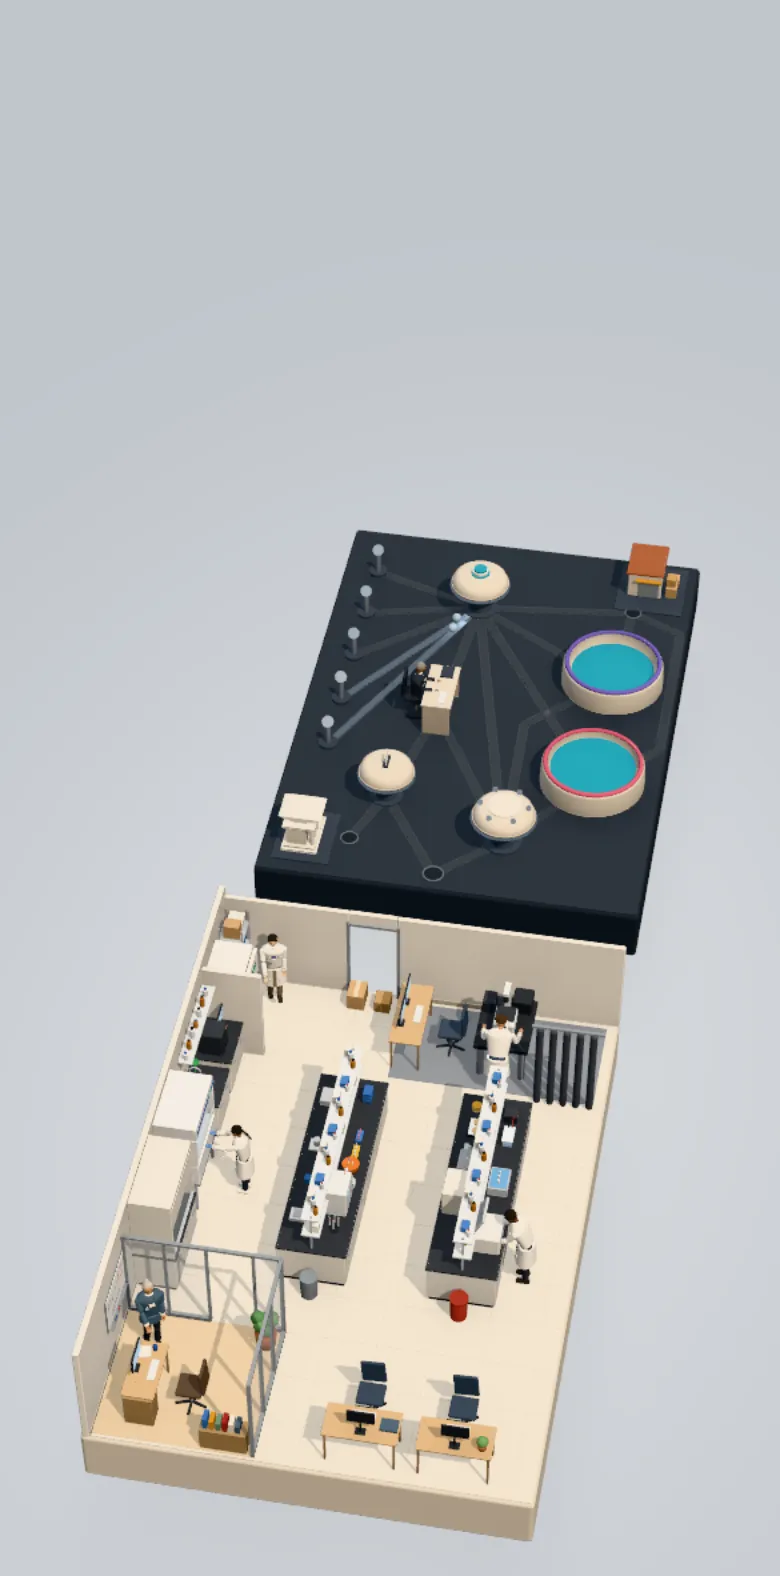
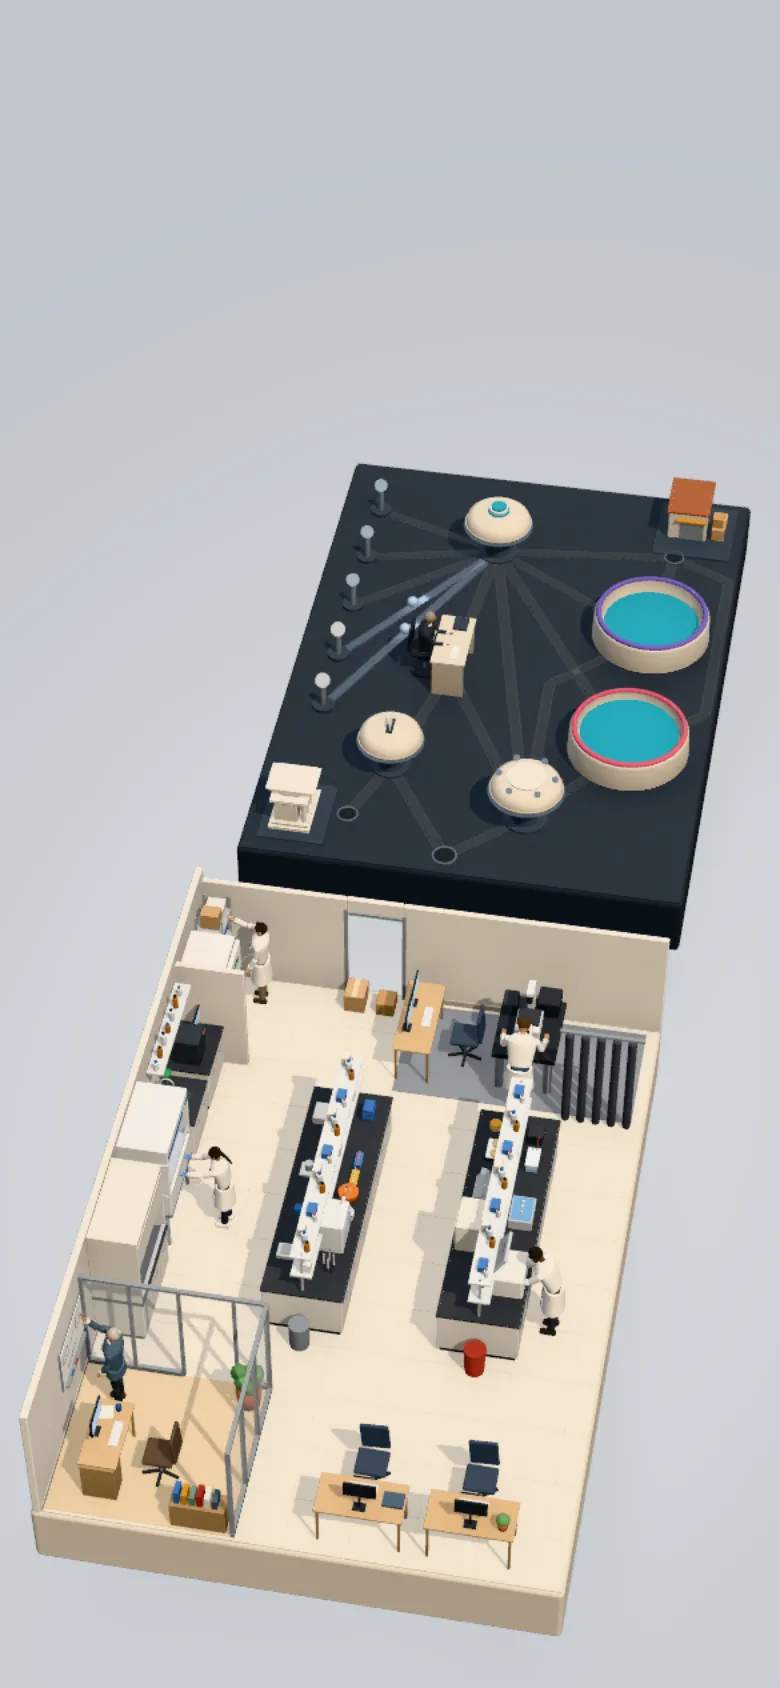
feat(hero): GrantGuard over the scene in compact type; the scene sits full-bleed on the stage's bottom edge
The name, one product line, one small line on the replay and an italic prompt
with the two ways in sit in the sky. The fit reports how much of the view the
scene spans, so the embedded picture rests on the bottom edge under the copy.
Stills regenerated at the bar-less stage size.

diff --git a/hero/src/demos/a1/demo-a1.css b/hero/src/demos/a1/demo-a1.css
@@ -1444,7 +1444,7 @@
 }
 .demo-a1 .a-embed-copy {
   position: absolute;
-  top: clamp(22px, 4.5vh, 52px);
+  top: clamp(20px, 4vh, 44px);
   right: 5%;
   left: 5%;
   z-index: 4;
@@ -1454,37 +1454,39 @@
 .demo-a1 .a-embed-copy > * {
   pointer-events: auto;
 }
-.demo-a1 .a-embed-head {
-  flex: none;
-}
 .demo-a1 .a-embed-head h1 {
   font-family: var(--display);
-  font-stretch: 110%;
-  font-weight: 660;
-  font-size: clamp(32px, min(4.1vw, 6.4vh), 64px);
-  line-height: 1.02;
+  font-stretch: 112%;
+  font-weight: 720;
+  font-size: clamp(36px, 4.5vw, 64px);
+  line-height: 1;
   letter-spacing: -0.035em;
   color: var(--ink);
+}
+.demo-a1 .a-embed-sub {
+  margin-top: 10px;
+  font-size: clamp(17px, 1.3vw, 19px);
+  font-weight: 500;
+  line-height: 1.4;
+  color: var(--ink-2);
   text-wrap: balance;
 }
 .demo-a1 .a-embed-head .a-lede {
-  max-width: 64ch;
-  margin: 14px auto 0;
-  font-size: clamp(15px, 1.15vw, 17px);
-  line-height: 1.5;
+  margin-top: 4px;
+  font-size: 13.5px;
+  line-height: 1.45;
+  color: var(--ink-3);
+}
+/* The prompt: an italic sentence with the two ways in standing upright in it. */
+.demo-a1 .a-embed-prompt {
+  margin-top: 16px;
+  font-size: clamp(18px, 1.4vw, 20px);
+  font-style: italic;
+  line-height: 1.6;
+  color: var(--ink);
   text-wrap: balance;
 }
-.demo-a1 .a-embed-prompt {
-  margin-top: 18px;
-  font-family: var(--display);
-  font-size: clamp(22px, 2.1vw, 30px);
-  font-weight: 600;
-  line-height: 1.6;
-  letter-spacing: -0.01em;
-  color: var(--ink);
-  text-wrap: pretty;
-}
-/* "Hover over and select" for a mouse, "Tap" for a finger. */
+/* "Hover over … then click" for a mouse, "Tap" for a finger. */
 .demo-a1 .a-verb-touch {
   display: none;
 }
@@ -1496,17 +1498,20 @@
     display: inline;
   }
 }
-/* The two phrases are buttons dressed as emphasis: ink pills that turn cobalt
-   while their side of the scene is lit, from here or from the scene. */
+/* The two phrases are buttons dressed as emphasis: compact ink pills that turn
+   cobalt while their side of the scene is lit, from here or from the scene. */
 .demo-a1 .a-embed-way {
   display: inline-block;
-  padding: 1px 11px 4px;
+  padding: 1px 8px 2px;
   border: 0;
-  border-radius: 8px;
+  border-radius: 6px;
   background: var(--ink);
   color: var(--on-slate);
   font: inherit;
-  line-height: 1.3;
+  font-size: 0.9em;
+  font-style: normal;
+  font-weight: 600;
+  line-height: 1.4;
   white-space: nowrap;
   cursor: pointer;
   transition: background-color 150ms ease-out;
@@ -1533,23 +1538,20 @@
 
 @media (max-width: 759px) {
   .demo-a1 .a-embed-copy {
-    top: 16px;
+    top: 18px;
     right: 16px;
     left: 16px;
   }
-  .demo-a1 .a-embed-head h1 {
-    font-size: 24px;
-    line-height: 1.08;
-    letter-spacing: -0.025em;
+  .demo-a1 .a-embed-sub {
+    margin-top: 8px;
+    font-size: 15px;
   }
   .demo-a1 .a-embed-head .a-lede {
-    margin-top: 8px;
-    font-size: 13.5px;
-    line-height: 1.45;
+    font-size: 12.5px;
   }
   .demo-a1 .a-embed-prompt {
     margin-top: 12px;
-    font-size: 20px;
+    font-size: 16px;
     line-height: 1.55;
   }
 }

diff --git a/hero/src/demos/a1/Hud.tsx b/hero/src/demos/a1/Hud.tsx
@@ -262,8 +262,8 @@ export function Hud({ root }: { root: RefObject<HTMLDivElement | null> }) {
 
 /**
  * Inside another page (embed.ts) the dashboard steps aside and the scene takes
- * the whole box: the headline, one line and a prompt run across its top
- * (Scene.tsx fits the scene under them). The way in is the scene itself;
+ * the whole box: the name, one line on the product, one on the replay and a
+ * prompt sit in the sky over it (Scene.tsx fits the scene under them). The way in is the scene itself;
  * the prompt's two phrases are the same two ways in for keys, screen readers
  * and anyone who would rather not aim, and they light their side of the scene.
  */
@@ -271,12 +271,15 @@ export function EmbedHud({ root }: { root: RefObject<HTMLDivElement | null> }) {
   return (
     <div className="a-embed-copy" data-float="embed-copy">
       <header className="a-embed-head">
-        <h1>An AI grant office that keeps a lab’s spending inside its grants’ rules.</h1>
-        <p className="a-lede">A simulated lab, replaying a scripted story; the spending rules are the real ones. Three AI agents check every request, and the grant manager decides the exceptions.</p>
+        <h1>GrantGuard</h1>
+        <p className="a-embed-sub">An AI grant office that keeps a lab’s spending inside its grants’ rules.</p>
+        <p className="a-lede">A simulated lab replaying a scripted story; the spending rules are the real ones.</p>
         <p className="a-embed-prompt">
-          <span className="a-verb-mouse">Hover over and select</span>
+          <span className="a-verb-mouse">Hover over</span>
           <span className="a-verb-touch">Tap</span> the <Way id="lab" label="Research lab: open the research portal">research lab</Way> or the{' '}
-          <Way id="net" label="Grant manager network: open the grant manager portal">grant manager network</Way>.
+          <Way id="net" label="Grant manager network: open the grant manager portal">grant manager network</Way>
+          <span className="a-verb-mouse">, then click to enter</span>
+          <span className="a-verb-touch"> to enter</span>.
         </p>
       </header>
       <RootSync root={root} phone={false} />

diff --git a/hero/src/embed.tsx b/hero/src/embed.tsx
@@ -69,10 +69,11 @@ function Still({ go }: { go: (role?: Role) => void }) {
         </div>
         <div className="a-embed-copy">
           <header className="a-embed-head">
-            <h1>An AI grant office that keeps a lab’s spending inside its grants’ rules.</h1>
-            <p className="a-lede">A still of the simulated lab. Three AI agents check every request against the real spending rules, and the grant manager decides the exceptions.</p>
+            <h1>GrantGuard</h1>
+            <p className="a-embed-sub">An AI grant office that keeps a lab’s spending inside its grants’ rules.</p>
+            <p className="a-lede">A still of the simulated lab; the spending rules are the real ones.</p>
             <p className="a-embed-prompt">
-              <span className="a-verb-mouse">Select</span>
+              <span className="a-verb-mouse">Choose</span>
               <span className="a-verb-touch">Tap</span> the{' '}
               <button type="button" className="a-embed-way" aria-label="Research lab: open the research portal" onClick={() => go('researcher')}>
                 research lab
@@ -80,8 +81,8 @@ function Still({ go }: { go: (role?: Role) => void }) {
               or the{' '}
               <button type="button" className="a-embed-way" aria-label="Grant manager network: open the grant manager portal" onClick={() => go('grant_office')}>
                 grant manager network
-              </button>
-              .
+              </button>{' '}
+              to enter.
             </p>
           </header>
         </div>

diff --git a/hero/src/demos/a1/Scene.tsx b/hero/src/demos/a1/Scene.tsx
@@ -507,12 +507,13 @@ function Warm() {
 }
 
 /**
- * Embedded, the copy runs across the stage's top (Hud.tsx EmbedHud). This
- * measures the band it takes into layout's `clearing` before the Rig reads its
- * first framing, so the scene opens already fitted under the copy, then slides
- * the picture down by half the band so the scene fills the rest of the stage.
+ * Embedded, the copy sits in the sky above the scene (Hud.tsx EmbedHud). This
+ * measures how far down it reaches into layout's `clearing` before the Rig
+ * reads its first framing, so the scene opens already fitted under the copy,
+ * then slides the picture down until the scene sits on the stage's bottom edge.
  */
 const CLEAR_GAP = 24
+const BOTTOM_PAD = 0.03
 function Clearing() {
   const { gl, camera } = useThree()
   const on = useEmbed(s => s.on)
@@ -544,7 +545,13 @@ function Clearing() {
   useFrame(({ size }) => {
     const a = applied.current
     const x = Math.round(clearing.left / 2)
-    const y = Math.round(clearing.top / 2)
+    let y = 0
+    if (on) {
+      // Bottom-anchored: the scene's lowest edge a hair above the stage's, never up under the copy.
+      const H = size.height
+      const f = heroFor(size.width / Math.max(1, H)).fill
+      y = Math.round(Math.min(H / 2 - (f * H) / 2, Math.max(clearing.top - H / 2 + (f * H) / 2, H / 2 - (f * H) / 2 - BOTTOM_PAD * H)))
+    }
     if (a.w === size.width && a.h === size.height && a.x === x && a.y === y) return
     Object.assign(a, { w: size.width, h: size.height, x, y })
     const cam = camera as PerspectiveCamera

diff --git a/hero/src/demos/a1/layout.ts b/hero/src/demos/a1/layout.ts
@@ -261,6 +261,8 @@ export interface Framing {
   pos: Vector3
   target: Vector3
   fov: number
+  /** How much of the view's height the scene spans, 0 to 1. */
+  fill: number
 }
 
 const FIT: V3[] = [
@@ -305,7 +307,13 @@ function fit(dir: Vector3, fov: number, aspect: number, margin: number, share = 
     }
     d = need
   }
-  return { pos: target.clone().addScaledVector(dir, d), target, fov }
+  let y0 = Infinity, y1 = -Infinity
+  for (const p of FIT) {
+    _q.set(p[0], p[1], p[2]).sub(target)
+    const y = _q.dot(_u) / (d + _q.dot(_f))
+    y0 = Math.min(y0, y); y1 = Math.max(y1, y)
+  }
+  return { pos: target.clone().addScaledVector(dir, d), target, fov, fill: (y1 - y0) / (2 * Math.tan(((fov / 2) * Math.PI) / 180)) }
 }
 
 const WIDE_DIR = new Vector3(-0.47, 0.72, 0.6).normalize()
